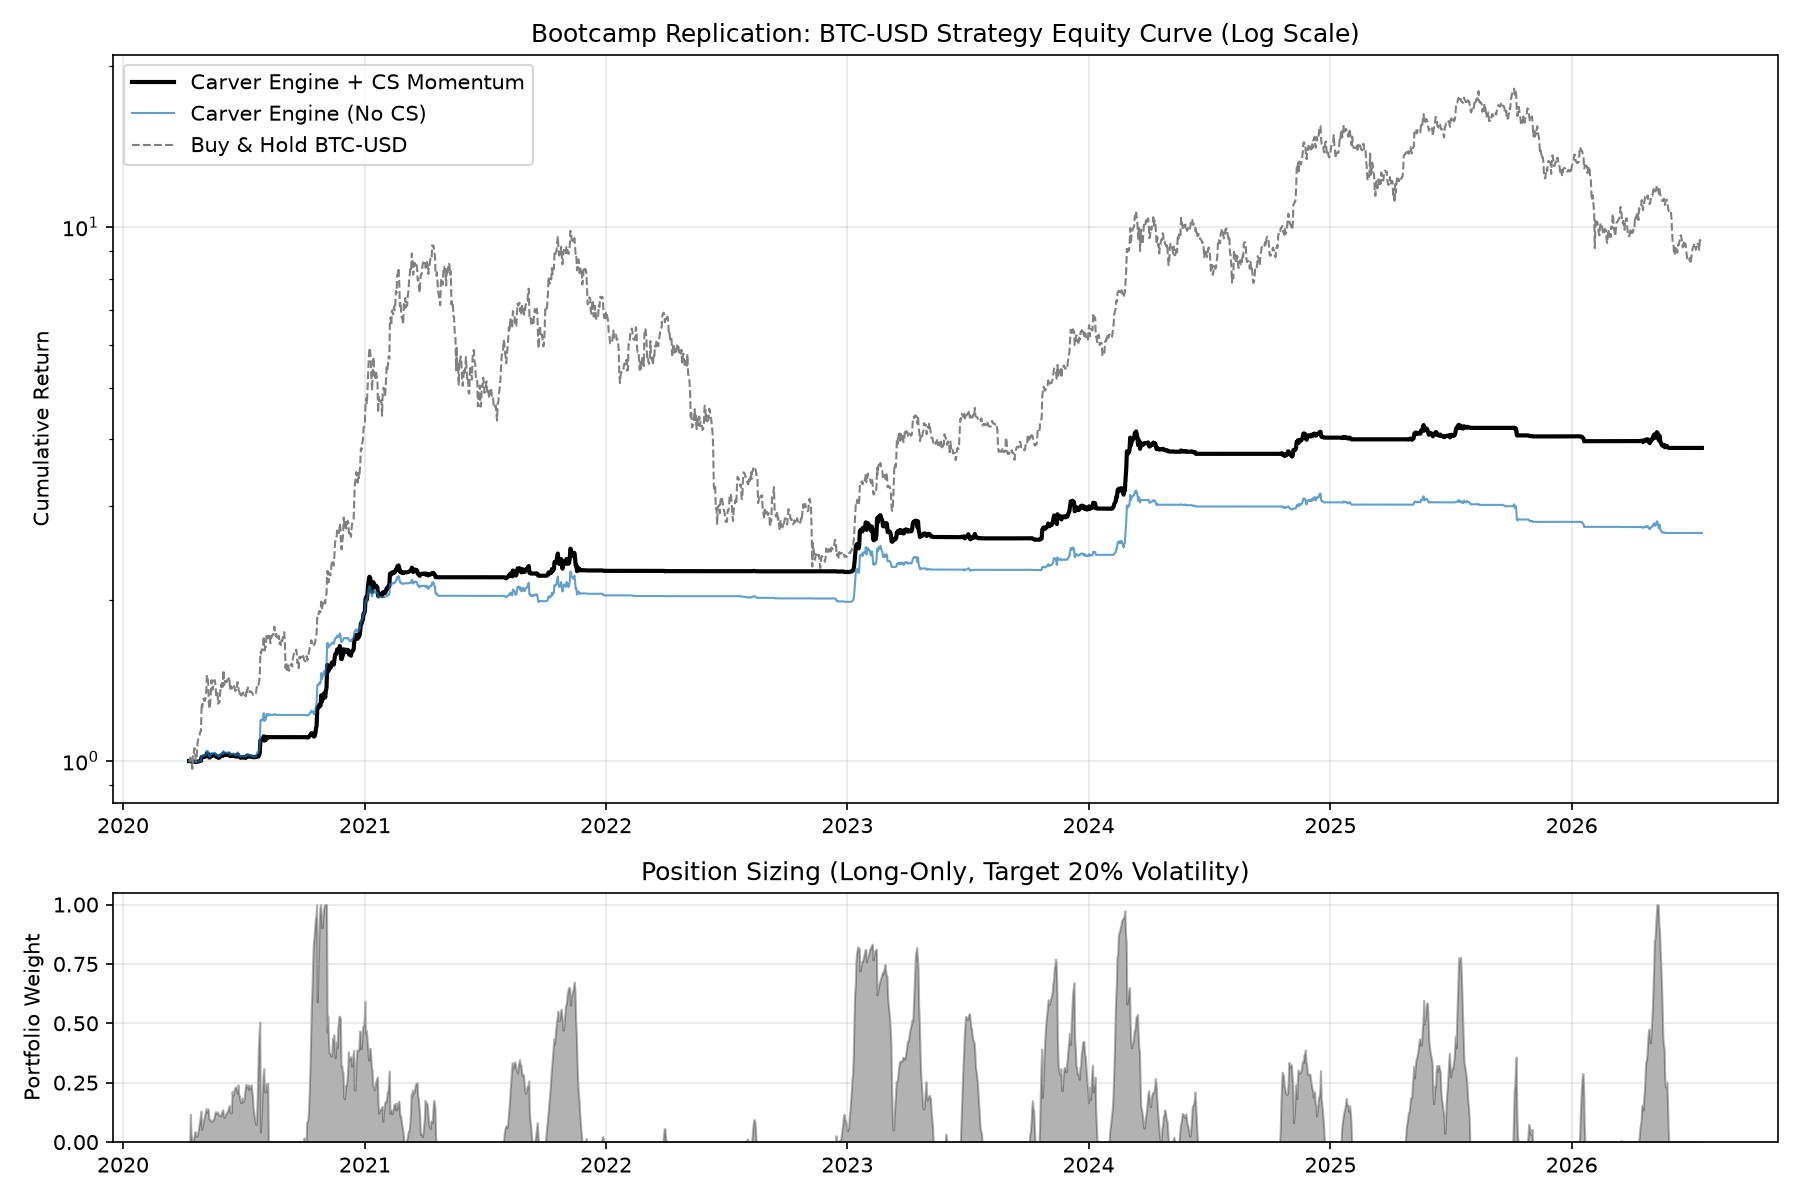
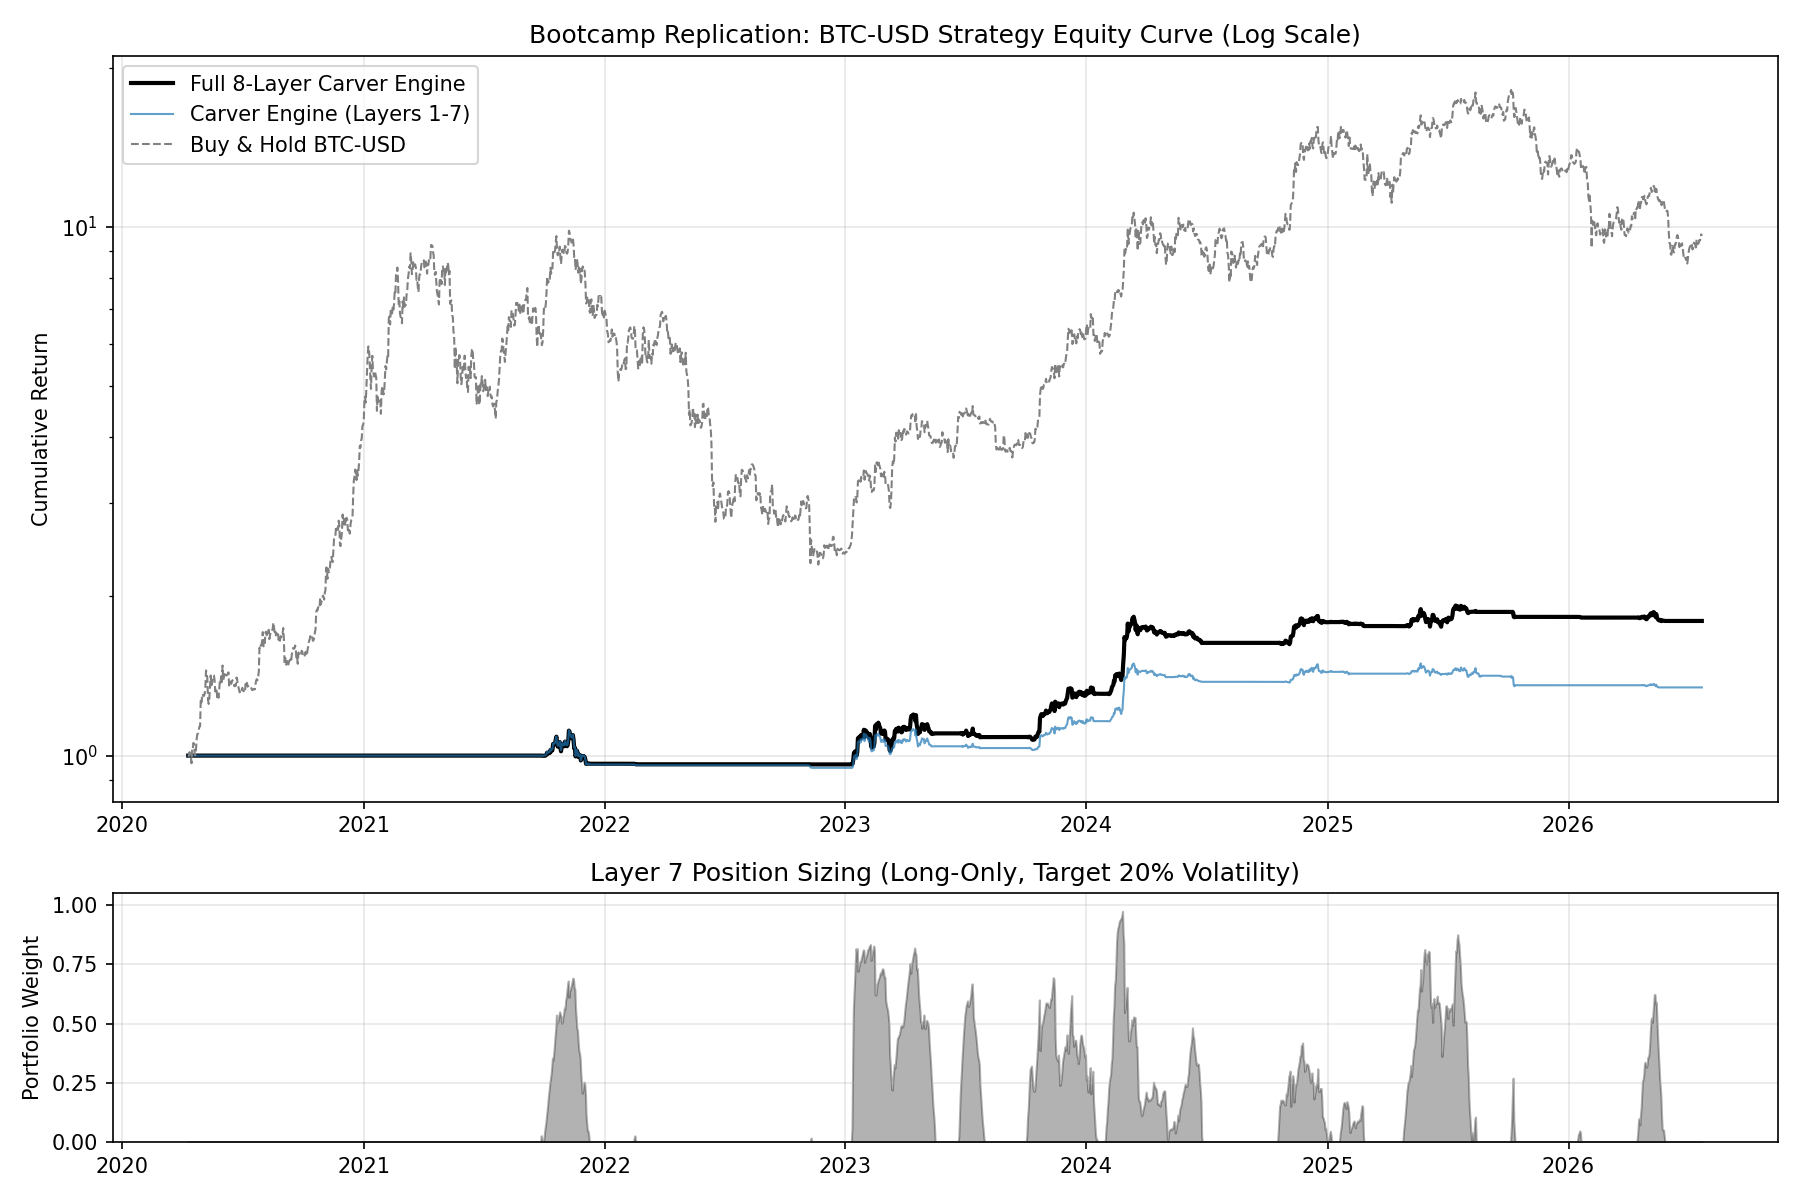
Eradicate lookahead bias (bfill) and enforce strict causality in forecast combination

diff --git a/carver_engine.py b/carver_engine.py
@@ -8,7 +8,8 @@ ANN_DAYS   = 365      # Crypto trades 365 days a year
 FC_TARGET  = 10.0     
 FC_CAP     = 20.0     
 VOL_TARGET = 0.20     
-EWMAC_PAIRS = [(8, 32, 5.95), (16, 64, 4.10), (32, 128, 2.79), (64, 256, 1.91)]
+# EWMAC spans scaled to 365 calendar days
+EWMAC_PAIRS = [(11, 46), (23, 91), (46, 183), (91, 365)]
 
 # =========================================================
 # UTILITIES: VOLATILITY ESTIMATION (Prerequisite)
@@ -52,38 +53,49 @@ def vol_stack(close, ann_days=ANN_DAYS, short_span=30, anchor_years=5,
 def ewmac_forecast(close, sigma_p, pairs=EWMAC_PAIRS, fdm=1.13, cap=FC_CAP):
     """Captures primary trends across 4 timeframes."""
     subs = []
-    for f, s, sc in pairs:
+    for f, s in pairs:
         raw = (close.ewm(span=f, adjust=False).mean() - close.ewm(span=s, adjust=False).mean()) / sigma_p
+        sc = 10.0 / raw.abs().expanding(min_periods=ANN_DAYS).mean()
+        sc = sc.replace([np.inf, -np.inf], 1.0)
         subs.append((raw * sc).clip(-cap, cap))
     return (sum(subs) / len(subs) * fdm).clip(-cap, cap)
 
 # =========================================================
 # LAYER 2: BREAKOUT
 # =========================================================
-def breakout_single(close, n, sc, sm, cap=FC_CAP):
+def breakout_single(close, n, sm, cap=FC_CAP):
     mn, mx = close.rolling(n).min(), close.rolling(n).max()
     rng = mx - mn
     spir = ((close - mn) / rng).where(rng > 0, 0.5)
-    return ((spir - 0.5) * 40.0).ewm(span=sm, adjust=False).mean().mul(sc).clip(-cap, cap)
+    raw = ((spir - 0.5) * 40.0).ewm(span=sm, adjust=False).mean()
+    sc = 10.0 / raw.abs().expanding(min_periods=ANN_DAYS).mean()
+    sc = sc.replace([np.inf, -np.inf], 1.0)
+    return (raw * sc).clip(-cap, cap)
 
 def breakout_forecast(close, fdm=1.17, cap=FC_CAP):
     """Price channel breakout normalized by volatility."""
-    P = [(40, 0.70, 10), (80, 0.73, 20), (160, 0.74, 40), (320, 0.74, 80)]
-    subs = [breakout_single(close, n, sc, sm) for n, sc, sm in P]
+    # Scaled to 365 calendar days
+    P = [(57, 14), (114, 29), (228, 57), (456, 114)]
+    subs = [breakout_single(close, n, sm) for n, sm in P]
     return (sum(subs) / len(subs) * fdm).clip(-cap, cap)
 
 # =========================================================
 # LAYER 3: ACCELERATION (2nd Derivative)
 # =========================================================
-def ewmac_base(close, sigma_p, f, s, sc, cap=FC_CAP):
-    return ((close.ewm(span=f, adjust=False).mean()
-             - close.ewm(span=s, adjust=False).mean()) / sigma_p * sc).clip(-cap, cap)
+def ewmac_base(close, sigma_p, f, s):
+    return (close.ewm(span=f, adjust=False).mean() - close.ewm(span=s, adjust=False).mean()) / sigma_p
 
 def accel_forecast(close, sigma_p, fdm=1.55, cap=FC_CAP):
     """Measures the momentum of the EWMAC signals themselves."""
-    bases = [ewmac_base(close, sigma_p, f, s, sc) for f, s, sc in EWMAC_PAIRS]
-    AP, SC = [8, 16, 32, 64], [1.87, 1.90, 1.98, 2.05]
-    subs = [((bases[i] - bases[i].shift(AP[i])) * SC[i]).clip(-cap, cap) for i in range(4)]
+    bases = [ewmac_base(close, sigma_p, f, s) for f, s in EWMAC_PAIRS]
+    # Spans scaled to calendar days
+    AP = [11, 23, 46, 91]
+    subs = []
+    for i in range(4):
+        raw = bases[i] - bases[i].shift(AP[i])
+        sc = 10.0 / raw.abs().expanding(min_periods=ANN_DAYS).mean()
+        sc = sc.replace([np.inf, -np.inf], 1.0)
+        subs.append((raw * sc).clip(-cap, cap))
     return (sum(subs) / len(subs) * fdm).clip(-cap, cap)
 
 # =========================================================
@@ -91,17 +103,21 @@ def accel_forecast(close, sigma_p, fdm=1.55, cap=FC_CAP):
 # =========================================================
 def skew_forecast(ret, fdm=1.18, cap=FC_CAP):
     """Goes long assets with negative skew to exploit mean reversion in panic selling."""
-    P = [(60, 33.3, 15), (120, 37.2, 30), (240, 39.2, 60)]
+    # Scaled to calendar days
+    P = [(86, 21), (171, 43), (342, 86)]
     subs = []
-    for w, sc, sm in P:
+    for w, sm in P:
         g = ret.rolling(w, min_periods=w // 2).skew()
-        subs.append((-g).ewm(span=sm, adjust=False).mean().mul(sc).clip(-cap, cap))
+        raw = (-g).ewm(span=sm, adjust=False).mean()
+        sc = 10.0 / raw.abs().expanding(min_periods=ANN_DAYS).mean()
+        sc = sc.replace([np.inf, -np.inf], 1.0)
+        subs.append((raw * sc).clip(-cap, cap))
     return (sum(subs) / len(subs) * fdm).clip(-cap, cap)
 
 # =========================================================
 # LAYER 5: VOLATILITY ATTENUATION (Defense)
 # =========================================================
-def vol_attenuation(vol, window=1260, smooth=10):
+def vol_attenuation(vol, window=1825, smooth=14):
     """Reduces position size during extreme high-volatility regimes."""
     p = vol.rolling(window, min_periods=ANN_DAYS).rank(pct=True)
     p = p.ewm(span=smooth, adjust=False).mean()
@@ -118,20 +134,38 @@ def fdm_from_corr(w, C, fdm_max=2.5):
     return float(min(fdm_max, 1.0 / np.sqrt(var))) if var > 0 else 1.0
 
 def combine_forecasts(forecasts, weights, cap=FC_CAP):
-    """Blends the active forecasts using a correlation-aware multiplier."""
+    """Blends the active forecasts using Carver's Table 52 Fixed Correlation Matrix."""
     names = list(forecasts.keys())
     F = pd.concat([forecasts[n].rename(n) for n in names], axis=1)
     
     w = np.array([weights[n] for n in names], float)
     w = w / w.sum()
     
-    C = F.dropna().corr().reindex(index=names, columns=names).values
-    C = np.nan_to_num(C, nan=0.0)
-    np.fill_diagonal(C, 1.0)
+    # Table 52 Fixed Correlation Matrix
+    c_fixed = pd.DataFrame(1.0, index=names, columns=names)
+    fixed_corrs = {
+        ("EWMAC", "Breakout"): 0.55,
+        ("EWMAC", "Accel"): 0.25,
+        ("EWMAC", "Skew"): 0.00,
+        ("EWMAC", "CSmom"): 0.10,
+        ("Breakout", "Accel"): 0.15,
+        ("Breakout", "Skew"): 0.00,
+        ("Breakout", "CSmom"): 0.10,
+        ("Accel", "Skew"): 0.00,
+        ("Accel", "CSmom"): 0.10,
+        ("Skew", "CSmom"): 0.00,
+    }
+    
+    for (f1, f2), val in fixed_corrs.items():
+        if f1 in c_fixed.columns and f2 in c_fixed.columns:
+            c_fixed.loc[f1, f2] = val
+            c_fixed.loc[f2, f1] = val
+            
+    C = c_fixed.values
     
     fdm = fdm_from_corr(w, C)
-    combined = (F.mul(w, axis=1).sum(axis=1) * fdm).clip(-cap, cap)
-    return combined, fdm, F.dropna().corr()
+    combined = (F.mul(w, axis=1).sum(axis=1, skipna=False) * fdm).clip(-cap, cap)
+    return combined, fdm, c_fixed
 
 # =========================================================
 # LAYER 7: SIZING (Forecast -> Weight)
@@ -156,12 +190,12 @@ def cs_momentum_forecast(panel, target, horizons=(40, 80), fam_fdm=1.10, cap=FC_
     A  = PN.mean(axis=1)
     R  = PN[target] - A
     
-    subs, scs = [], []
+    subs = []
     for H in horizons:
         raw = (R - R.shift(H)) / H
         sm  = raw.ewm(span=max(2, H // 4), adjust=False).mean()
-        sc  = 10.0 / sm.abs().mean() if sm.abs().mean() > 0 else 1.0
-        scs.append(sc)
+        sc = 10.0 / sm.abs().expanding(min_periods=ANN_DAYS).mean()
+        sc = sc.replace([np.inf, -np.inf], 1.0)
         subs.append((sm * sc).clip(-cap, cap))
         
     cs = (sum(subs) / len(subs) * fam_fdm).clip(-cap, cap)

diff --git a/OCURE-5-Dynamic-Equity/carver_master_strategy.py b/OCURE-5-Dynamic-Equity/carver_master_strategy.py
@@ -178,7 +178,7 @@ class CarverSystem:
     # LAYER 7: CROSS-SECTIONAL MOMENTUM
     # --------------------------------------------------------------------------
     def _normalised_price(self, ret, vol_ann):
-        safe_vol = vol_ann.replace(0.0, np.nan).bfill().fillna(1.0)
+        safe_vol = vol_ann.replace(0.0, np.nan).ffill().fillna(1.0)
         r_norm = ret / (safe_vol / np.sqrt(self.ann_days))
         r_norm = r_norm.replace([np.inf, -np.inf], np.nan).fillna(0.0)
         return 100.0 + r_norm.cumsum()
@@ -199,8 +199,9 @@ class CarverSystem:
         for h in [40, 80]:
             outperf = r.diff(1)
             f_raw = outperf.ewm(span=h, adjust=False).mean()
-            # Empirical scaling constant (roughly calibration scalar)
-            scalar = self.fc_target / f_raw.abs().mean()
+            # Expanding scaling constant to prevent lookahead bias
+            scalar = self.fc_target / f_raw.abs().expanding(min_periods=self.ann_days).mean()
+            scalar = scalar.replace([np.inf, -np.inf], 1.0)
             f_scaled = self._clip_fc(f_raw * scalar)
             fcs.append(f_scaled)
             
@@ -226,12 +227,31 @@ class CarverSystem:
         w_arr = np.array([weights[n] for n in names])
         w_arr = w_arr / w_arr.sum()
         
-        c = f_df.dropna().corr()
-        fdm = self.fdm_from_corr(w_arr, c)
+        # Table 52 Fixed Correlation Matrix
+        c_fixed = pd.DataFrame(1.0, index=names, columns=names)
+        fixed_corrs = {
+            ("ewmac", "breakout"): 0.55,
+            ("ewmac", "accel"): 0.25,
+            ("ewmac", "skew"): 0.00,
+            ("ewmac", "cs_mom"): 0.10,
+            ("breakout", "accel"): 0.15,
+            ("breakout", "skew"): 0.00,
+            ("breakout", "cs_mom"): 0.10,
+            ("accel", "skew"): 0.00,
+            ("accel", "cs_mom"): 0.10,
+            ("skew", "cs_mom"): 0.00,
+        }
+        
+        for (f1, f2), val in fixed_corrs.items():
+            if f1 in c_fixed.columns and f2 in c_fixed.columns:
+                c_fixed.loc[f1, f2] = val
+                c_fixed.loc[f2, f1] = val
+                
+        fdm = self.fdm_from_corr(w_arr, c_fixed)
         
         # sum(axis=1) will ignore NA by default, but we should just multiply and sum
-        combined = (f_df * w_arr).sum(axis=1) * fdm
-        return self._clip_fc(combined), fdm, c
+        combined = (f_df * w_arr).sum(axis=1, skipna=False) * fdm
+        return self._clip_fc(combined), fdm, c_fixed
 
     # --------------------------------------------------------------------------
     # FINAL: DEMOCRATIC VOTING & POSITION SIZING